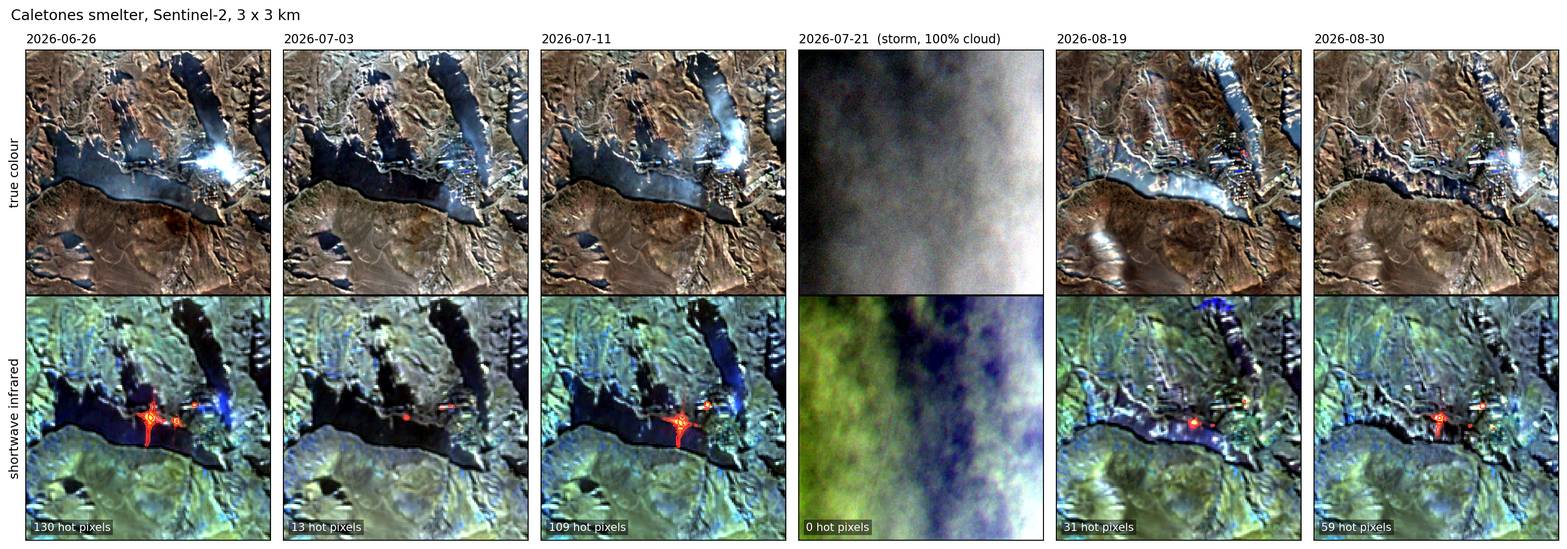
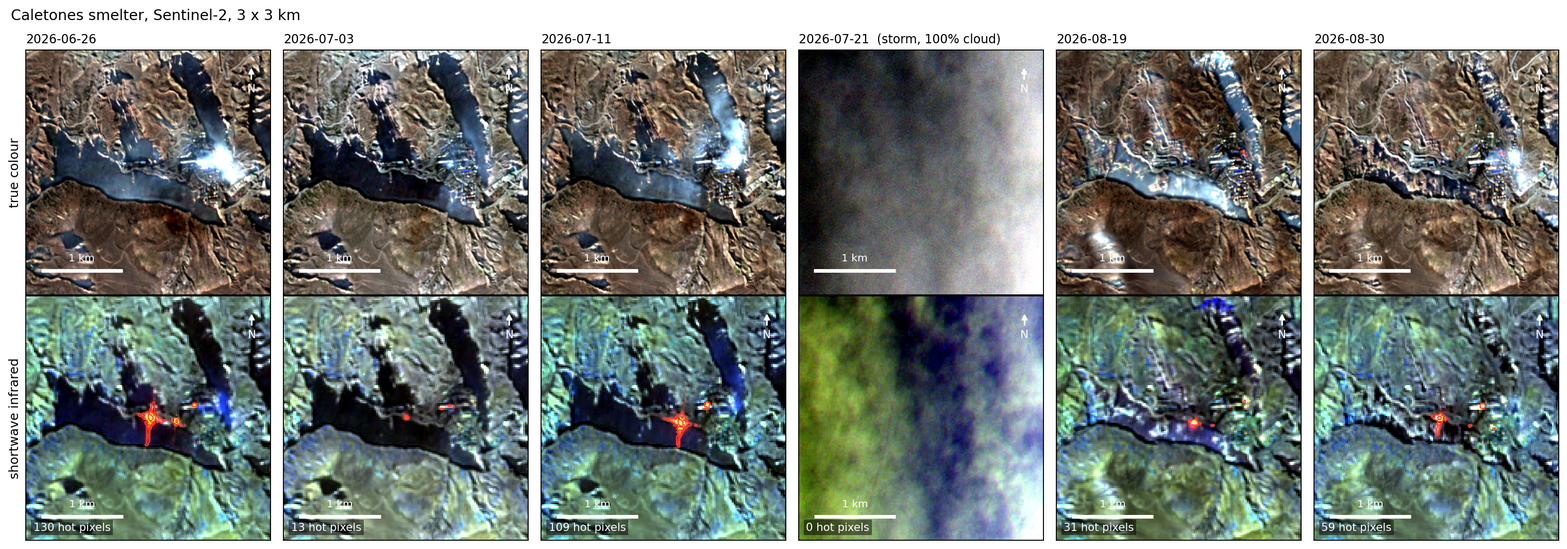
014: scale bars and north arrows on the satellite scenes

diff --git a/014-copper-satellite-signals/chile_scenes.py b/014-copper-satellite-signals/chile_scenes.py
@@ -39,6 +39,20 @@ def stretch(a, lo=2, hi=98):
     return np.clip((a - p1) / (p2 - p1 + 1e-9), 0, 1)
 
 
+def map_marks(fig, box_km, bar_km):
+    """A scale bar and a north arrow on every image panel of the figure."""
+    for ax in fig.axes:
+        ims = ax.get_images()
+        if not ims:
+            continue
+        h, w = ims[0].get_array().shape[:2]
+        n = bar_km / box_km * w
+        ax.plot([0.06 * w, 0.06 * w + n], [0.90 * h] * 2, color="w", lw=3, solid_capstyle="butt")
+        ax.text(0.06 * w + n / 2, 0.86 * h, f"{bar_km:g} km", color="w", ha="center", fontsize=8.5)
+        ax.annotate("N", xy=(0.92 * w, 0.06 * h), xytext=(0.92 * w, 0.17 * h), color="w", ha="center", fontsize=9,
+                    arrowprops=dict(arrowstyle="-|>", color="w", lw=1.3))
+
+
 def main():
     vs.HALF = 1500
     sas = json.loads(urllib.request.urlopen(vs.TOKEN, timeout=60).read())["token"]
@@ -74,6 +88,7 @@ def main():
         print(day, cc, int(hot.sum()))
     axes[0, 0].set_ylabel("true colour", fontsize=10.5); axes[1, 0].set_ylabel("shortwave infrared", fontsize=10.5)
     fig.suptitle("Caletones smelter, Sentinel-2, 3 x 3 km", x=0.01, ha="left", fontsize=12)
+    map_marks(fig, 3, 1)
     fig.tight_layout()
     fig.savefig(os.path.join(HERE, "figures", "fig8_caletones_scenes.png"), dpi=170, bbox_inches="tight")
 

diff --git a/014-copper-satellite-signals/kazakhstan_scenes.py b/014-copper-satellite-signals/kazakhstan_scenes.py
@@ -39,6 +39,20 @@ def stretch(a, lo=2, hi=98):
     return np.clip((a - p1) / (p2 - p1 + 1e-9), 0, 1)
 
 
+def map_marks(fig, box_km, bar_km):
+    """A scale bar and a north arrow on every image panel of the figure."""
+    for ax in fig.axes:
+        ims = ax.get_images()
+        if not ims:
+            continue
+        h, w = ims[0].get_array().shape[:2]
+        n = bar_km / box_km * w
+        ax.plot([0.06 * w, 0.06 * w + n], [0.90 * h] * 2, color="w", lw=3, solid_capstyle="butt")
+        ax.text(0.06 * w + n / 2, 0.86 * h, f"{bar_km:g} km", color="w", ha="center", fontsize=8.5)
+        ax.annotate("N", xy=(0.92 * w, 0.06 * h), xytext=(0.92 * w, 0.17 * h), color="w", ha="center", fontsize=9,
+                    arrowprops=dict(arrowstyle="-|>", color="w", lw=1.3))
+
+
 def main():
     vs.HALF = 3000
     sas = json.loads(urllib.request.urlopen(TOKEN, timeout=60).read())["token"]
@@ -65,6 +79,7 @@ def main():
     axes[0, 0].set_ylabel("true colour", fontsize=10.5)
     axes[1, 0].set_ylabel("shortwave infrared", fontsize=10.5)
     fig.suptitle("Balkhash copper smelter, Landsat 7, 6 x 6 km", x=0.01, ha="left", fontsize=12)
+    map_marks(fig, 6, 2)
     fig.tight_layout()
     fig.savefig(os.path.join(HERE, "figures", "fig7_balkhash_scenes.png"), dpi=170, bbox_inches="tight")
     print(counts)
